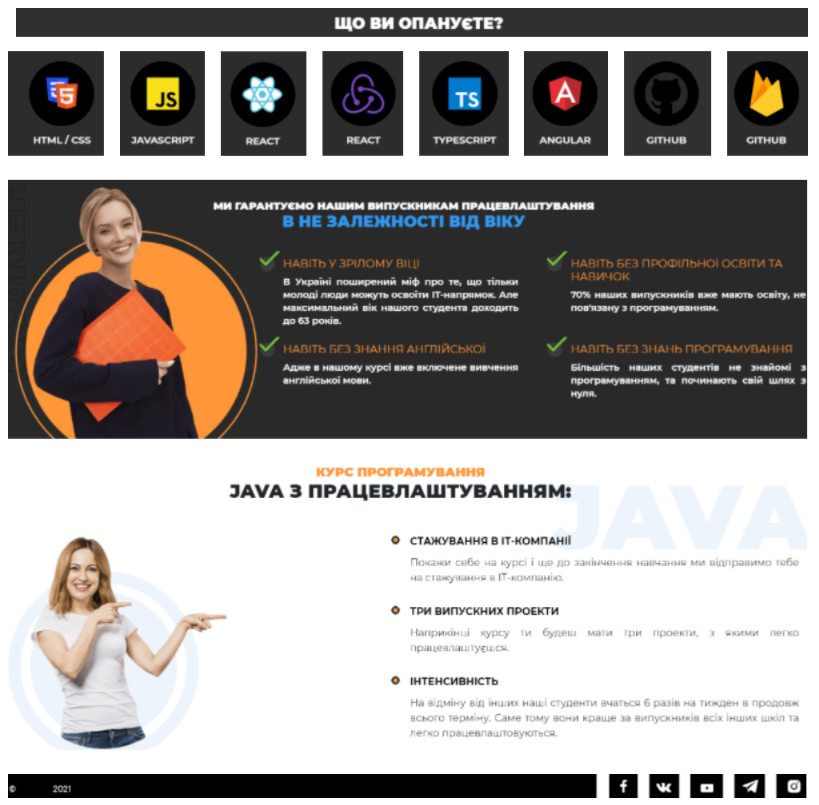
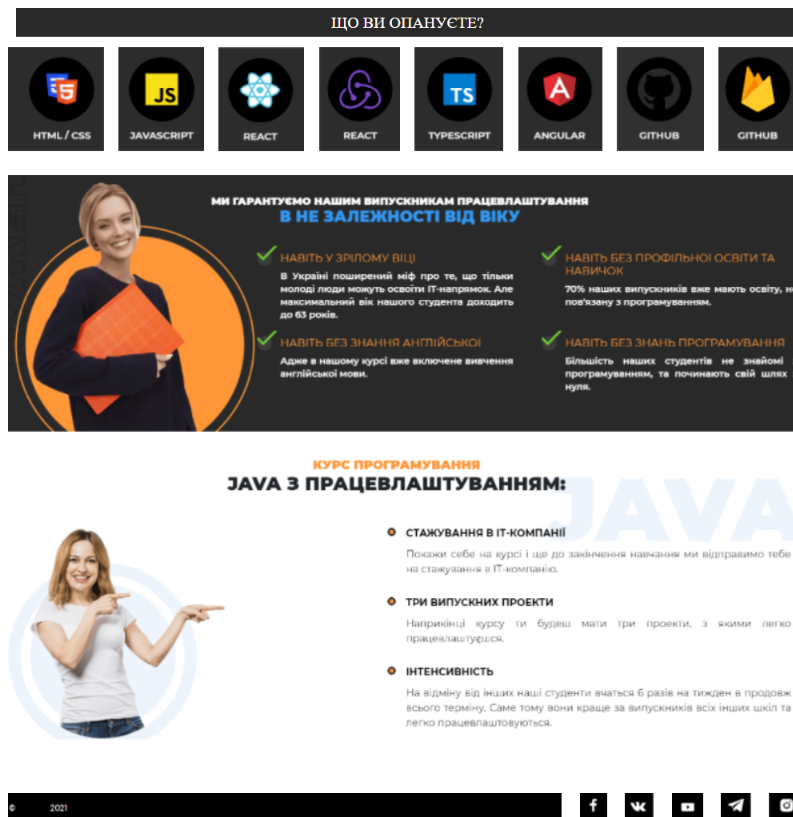
Change task 3(Ruhliadev)

diff --git a/Lab 3/lab3_p6.html b/Lab 3/lab3_p6.html
@@ -79,7 +79,7 @@
 
         <h3 align="center">Рухлядєв Олександр<br> Варіант 5<br></h3>
         <div>
-            &lt;!DOCTYPE HTML&gt;<br />&lt;html&gt;<br /><br />&lt;head&gt;<br />    &lt;title&gt;Task 3&lt;/title&gt;<br />    &lt;link rel=&quot;stylesheet&quot; href=&quot;Task3.css&quot;&gt;<br />&lt;/head&gt;<br /><br />&lt;body&gt;<br />    &lt;div id=&quot;header&quot;&gt;&lt;img src=&quot;header.png&quot;&gt;&lt;/div&gt;<br />    &lt;div id=&quot;flex-container&quot;&gt;<br />        &lt;div style=&quot;width: 96px&quot;&gt;&lt;img src=&quot;element.png&quot;&gt;&lt;/div&gt;<br />        &lt;div style=&quot;width: 85px&quot;&gt;&lt;img src=&quot;element2.png&quot;&gt;&lt;/div&gt;<br />        &lt;div style=&quot;width: 86px&quot;&gt;&lt;img src=&quot;element3.png&quot;&gt;&lt;/div&gt;<br />        &lt;div style=&quot;width: 81px&quot;&gt;&lt;img src=&quot;element4.png&quot;&gt;&lt;/div&gt;<br />        &lt;div style=&quot;width: 89px&quot;&gt;&lt;img src=&quot;element5.png&quot;&gt;&lt;/div&gt;<br />        &lt;div style=&quot;width: 84px&quot;&gt;&lt;img src=&quot;element6.png&quot;&gt;&lt;/div&gt;<br />        &lt;div style=&quot;width: 87px&quot;&gt;&lt;img src=&quot;element7.png&quot;&gt;&lt;/div&gt;<br />        &lt;div style=&quot;width: 81px&quot;&gt;&lt;img src=&quot;element8.png&quot;&gt;&lt;/div&gt;<br />    &lt;/div&gt;<br />    &lt;div&gt;&lt;img src=&quot;body.png&quot;&gt;&lt;/div&gt;<br />    &lt;div&gt;&lt;img src=&quot;body2.png&quot;&gt;&lt;/div&gt;<br />    &lt;div&gt;&lt;img src=&quot;bottom.png&quot;&gt;&lt;/div&gt;<br />&lt;/body&gt;<br /><br />&lt;/html&gt;
+            &lt;!DOCTYPE HTML&gt;<br />&lt;html&gt;<br /><br />&lt;head&gt;<br />    &lt;title&gt;Task 3&lt;/title&gt;<br />    &lt;link rel=&quot;stylesheet&quot; href=&quot;Task3.css&quot;&gt;<br />&lt;/head&gt;<br /><br />&lt;body&gt;<br />    &lt;header&gt;<br />        &lt;div id=&quot;header&quot;&gt;ЩО ВИ ОПАНУЄТЕ?&lt;/div&gt;<br />    &lt;/header&gt;<br />    &lt;main&gt;<br />        &lt;div id=&quot;flex-container&quot; style=&quot;margin-top:10px&quot;&gt;<br />            &lt;img src=&quot;element.png&quot;&gt;<br />            &lt;img src=&quot;element2.png&quot;&gt;<br />            &lt;img src=&quot;element3.png&quot;&gt;<br />            &lt;img src=&quot;element4.png&quot;&gt;<br />            &lt;img src=&quot;element5.png&quot;&gt;<br />            &lt;img src=&quot;element6.png&quot;&gt;<br />            &lt;img src=&quot;element7.png&quot;&gt;<br />            &lt;img src=&quot;element8.png&quot;&gt;<br />        &lt;/div&gt;<br />        &lt;div&gt;&lt;img src=&quot;body.png&quot; width=&quot;100%&quot;&gt;&lt;/div&gt;<br />        &lt;div&gt;&lt;img src=&quot;body2.png&quot; width=&quot;100%&quot;&gt;&lt;/div&gt;<br />    &lt;/main&gt;<br />    &lt;footer id=&quot;flex-container&quot;&gt;<br />        &lt;img src=&quot;bottom.png&quot; width=&quot;70%&quot;&gt;<br />        &lt;img src=&quot;facebook.png&quot;&gt;<br />        &lt;img src=&quot;vk.png&quot;&gt;<br />        &lt;img src=&quot;youtube.png&quot;&gt;<br />        &lt;img src=&quot;telegram.png&quot;&gt;<br />        &lt;img src=&quot;instagram.png&quot;&gt;<br />    &lt;/footer&gt;<br />&lt;/body&gt;<br /><br />&lt;/html&gt;
         </div>
 
         <h3 align="center">Юнак Микита<br> Варіант<br></h3>

diff --git a/Lab 3/lab3_p7.html b/Lab 3/lab3_p7.html
@@ -80,7 +80,7 @@
 
         <h3>Рухлядєв Олександр<br> Варіант 5<br></h3>
         <div>
-            div {<br/>    width: 800px;<br/>    margin-top: 20px;<br/>    margin-top: 20px;<br/>}<br/>#header {<br/>    margin-top: 2px;<br/>    margin-left: 8px;<br/>}<br/>#flex-container {<br/>    display: flex;<br/>    margin-top: -10px;<br/>    justify-content: space-between;<br/>}
+            div {<br />    margin-top: 20px;<br />}<br />#header {<br />    background-color: #292929;<br />    height: 29px;<br />    margin-top: 2px;<br />    margin-left: 8px;<br />    line-height: 29px;<br />    text-align: center;<br />    color: white;<br />}<br />#flex-container {<br />    display: flex;<br />    justify-content: space-between;<br />}<br />footer {<br />    margin-top: 50px;<br />}
         </div>
 
         <h3>Юнак Микита<br> Варіант<br></h3>

diff --git a/Lab 3/Task3/Ruhliadev/Task3.css b/Lab 3/Task3/Ruhliadev/Task3.css
@@ -1,14 +1,19 @@
 div {
-    width: 800px;
-    margin-top: 20px;
     margin-top: 20px;
 }
 #header {
+    background-color: #292929;
+    height: 29px;
     margin-top: 2px;
     margin-left: 8px;
+    line-height: 29px;
+    text-align: center;
+    color: white;
 }
 #flex-container {
     display: flex;
-    margin-top: -10px;
     justify-content: space-between;
+}
+footer {
+    margin-top: 50px;
 }
